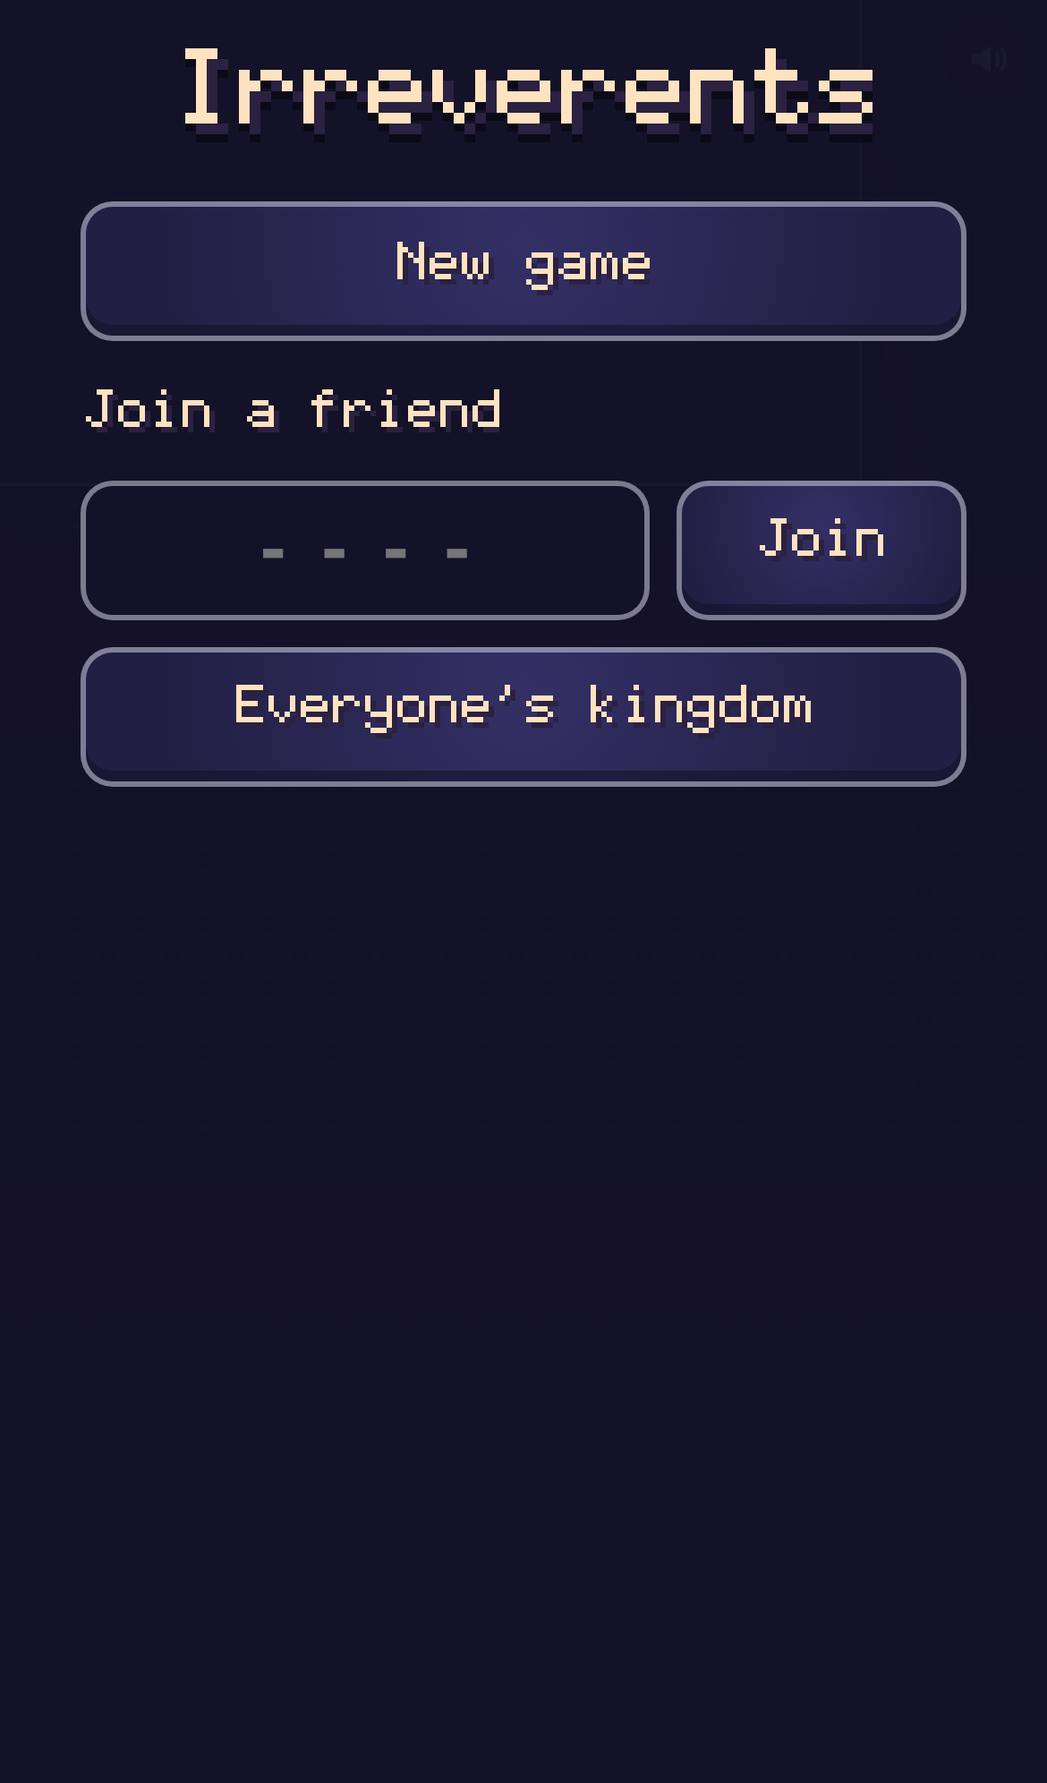
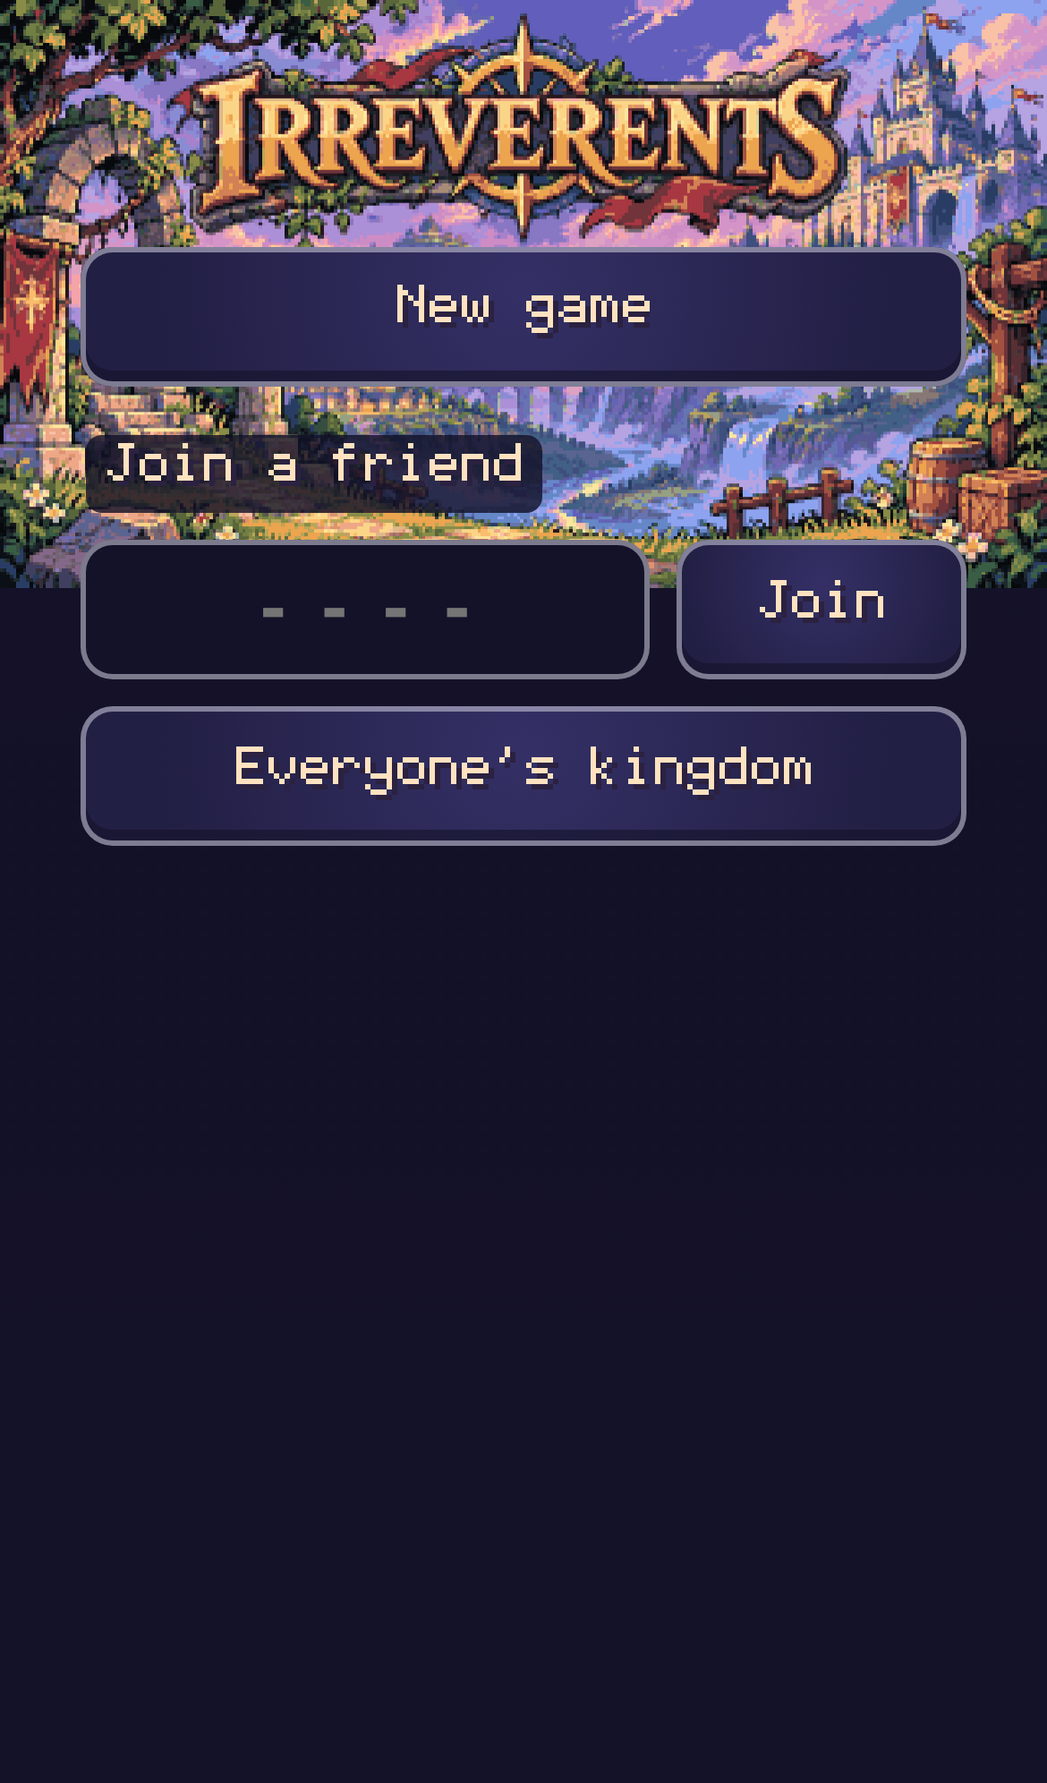
The owner's title screen on the start screen
The owner: "Title screen asset added to the drive". Their picture (Drive:
Current Pixel-Art Explorations/Irreverents_Title_Screen_Concept_2026-11-23.png,
mirrored at 8cb79ac) is now the start screen's title, behind the choices,
on the start screen and on a shared link's page. Its own lettering is the
title, so the old pixel-font title is not drawn.

- tools/art/title/make.py re-authors it to the 320x180 grid (cell
  averages, then 64 flat colours, no dither) as assets/ui/title-screen.png;
  content/looks/title.json names the whole picture and the wordmark's box.
- src/client/start.ts draws it inside the safe area, whole and against the
  top, nearest-neighbour at device pixels; a spacer keeps every choice
  below the wordmark; labels get a dark backing over the picture; under
  420 px high the choices pack to 44 px. Sideways the whole picture shows;
  upright it spans the width at the top (DRAFT, decisions-log 2026-11-24).
  An empty Continue column no longer pushes the choices off centre.

Ran: npm run build, npm run check (ok); npm run e2e twice: every start-*
fact ok both times; known flakes from step-5-e2e-flakes failed (run 1:
t-throw-friend, h1, h2; run 2: h1 only). Control: with content/looks/title.json
removed, the page draws the old title and no picture. Screenshots at
390x664, 667x375, 844x340 and 1280x720 in docs/plan/step-17-shots/title/,
looked at: nothing cropped, every choice on screen and 44 px or taller.
[…]

diff --git a/src/client/start.ts b/src/client/start.ts
@@ -9,6 +9,7 @@
 import type { Content } from '../content/types.ts';
 import { cleanGameCode, codeFromText, GAME_CODE_LENGTH, GAME_PREFIX, gameCode, isGameCode, makeGameCode } from '../net/game-code.ts';
 import { DEFAULT_WORLD } from '../net/protocol.ts';
+import { lookTable } from '../content/kinds/looks.ts';
 import { look } from './draw/looks.ts';
 
 /** A key-value store that never throws (main.ts's `storage`: phone storage, else memory). */
@@ -171,6 +172,92 @@ function piecesImage(content: Content, pieces: boolean[], cssPerPixel: number): 
   return span;
 }
 
+// ---- The title picture ---------------------------------------------------
+
+/** DRAFT: the owner's title screen (content/looks/title.json); the whole picture, and the wordmark's box inside it. */
+const TITLE_LOOK = 'start-title-screen';
+const WORDMARK_LOOK = 'start-title-wordmark';
+
+/**
+ * The owner's title screen behind the start screen (docs/plan/step-17.md,
+ * "Title screen"). The whole picture is fitted inside the safe area,
+ * nearest-neighbour at device pixels, centred and against the top: sideways
+ * it fills the height, upright it spans the width with the night ground
+ * below. A spacer keeps every choice below the wordmark's box, so no button
+ * covers the title. Null when content has no title picture: the caller
+ * draws the old pixel-font title instead (art is data).
+ */
+function titlePicture(content: Content): { back: HTMLElement; spacer: HTMLElement; stop(): void } | null {
+  const table = lookTable(content);
+  const whole = table.get(TITLE_LOOK);
+  const mark = table.get(WORDMARK_LOOK);
+  if (!whole) return null;
+  const back = el('div', { class: 'st-back' });
+  const c = el('canvas', { role: 'img', 'aria-label': 'Irreverents' });
+  back.append(c);
+  const spacer = el('div', { class: 'st-spacer' });
+  // The wordmark's bottom edge on the picture (the whole picture when the file names no box).
+  const clearTo = mark ? mark.src[1] + mark.src[3] - whole.src[1] : whole.src[3];
+  const layout = (): boolean => {
+    const r = back.getBoundingClientRect();
+    const [, , w, h] = whole.src;
+    const s = Math.min(r.width / w, r.height / h);
+    if (!(s > 0)) return false;
+    // Keep every choice below the wordmark: the spacer ends where the box does on screen.
+    spacer.style.height = '0px';
+    const parent = spacer.parentElement;
+    const scrolled = parent ? parent.scrollTop : 0;
+    const startsAt = spacer.getBoundingClientRect().top + scrolled;
+    spacer.style.height = `${Math.max(0, Math.ceil(r.top + clearTo * s + 4 - startsAt))}px`;
+    const l = look(content, TITLE_LOOK);
+    if (!l) return false;
+    const dpr = window.devicePixelRatio || 1;
+    const cw = Math.round(w * s * dpr);
+    const ch = Math.round(h * s * dpr);
+    c.width = cw;
+    c.height = ch;
+    c.style.width = `${cw / dpr}px`;
+    c.style.height = `${ch / dpr}px`;
+    const g = c.getContext('2d');
+    if (!g) return false;
+    g.imageSmoothingEnabled = false;
+    g.drawImage(l.img, l.x, l.y, l.w, l.h, 0, 0, cw, ch);
+    return true;
+  };
+  let t = 0;
+  const retry = (): void => {
+    clearInterval(t);
+    if (layout()) return;
+    t = window.setInterval(() => layout() && clearInterval(t), 100);
+    setTimeout(() => clearInterval(t), 20000);
+  };
+  window.addEventListener('resize', retry);
+  window.addEventListener('orientationchange', retry);
+  requestAnimationFrame(retry);
+  return {
+    back,
+    spacer,
+    stop: () => {
+      clearInterval(t);
+      window.removeEventListener('resize', retry);
+      window.removeEventListener('orientationchange', retry);
+    },
+  };
+}
+
+/** The top of the start screen: the owner's title picture when content has it, else the pixel-font title. */
+function titleTop(content: Content, root: HTMLElement): (() => void) | null {
+  const pic = titlePicture(content);
+  if (!pic) {
+    root.append(el('div', { class: 'st-title' }, words(content, 'Irreverents', 4)));
+    return null;
+  }
+  root.classList.add('pictured');
+  // INTENT: the picture's own lettering is the title; the old text title is not also drawn (the brief).
+  root.append(pic.back, pic.spacer);
+  return pic.stop;
+}
+
 // ---- Look ----------------------------------------------------------------
 
 const CSS = `
@@ -206,6 +293,25 @@ const CSS = `
 #menu-btn i { position: absolute; left: 13px; width: 18px; height: 2px; background: rgba(244, 241, 222, .7); box-shadow: 0 0 0 1px rgba(15, 15, 28, .55); }
 #menu-btn i:nth-child(1) { top: 15px; } #menu-btn i:nth-child(2) { top: 21px; } #menu-btn i:nth-child(3) { top: 27px; }
 #menu-btn:active { background: rgba(244, 241, 222, .2); }
+/* DRAFT (title screen): the owner's picture behind the choices, inside the safe area (clear of the notch and the home bar), on the night ground. */
+#start .st-back { position: fixed; z-index: -1; pointer-events: none; display: flex; justify-content: center; align-items: flex-start;
+  top: env(safe-area-inset-top); right: env(safe-area-inset-right); bottom: env(safe-area-inset-bottom); left: env(safe-area-inset-left); }
+#start .st-back canvas { display: block; }
+#start .st-spacer { flex: none; width: 100%; }
+/* No games to continue: the empty column takes no room, so the choices sit centred under the title. */
+#start .st-col:empty { display: none; }
+/* Words with no button of their own sit on a dark plate, so they read over the picture. */
+#start.pictured .st-label, #start.pictured .st-say:not(:empty) { align-self: flex-start; padding: 3px 8px; border-radius: 6px; background: rgba(20, 18, 40, .82); }
+#start.pictured .st-say:not(:empty) { align-self: stretch; }
+#start.pictured .st-btn.quiet { background: rgba(20, 18, 40, .82); }
+/* Short screens (a phone sideways): every choice still 44 px, packed closer, so all fit below the wordmark. */
+@media (max-height: 420px) {
+  #start.pictured .st-col { gap: 8px; }
+  #start.pictured .st-btn { min-height: 44px; }
+  #start.pictured .st-btn.big { min-height: 64px; }
+  #start.pictured .st-join input { height: 44px; }
+  #start.pictured .st-label { margin-top: 0; }
+}
 #game-menu, #gone { justify-content: center; }
 #gone .st-col { display: flex; flex-direction: column; gap: 14px; width: 100%; max-width: 330px; }
 #gone .st-say { font-size: 16px; line-height: 1.4; }
@@ -276,6 +382,7 @@ export function showStart(opts: StartOptions): StartRecord {
     return parts.length > 0 ? `?${parts.join('&')}` : location.pathname;
   };
   let done = false;
+  let stopTitle: (() => void) | null = null;
   const go = (world: string): void => {
     if (done) return;
     done = true;
@@ -289,6 +396,7 @@ export function showStart(opts: StartOptions): StartRecord {
       // an address that cannot be changed changes nothing else
     }
     root.remove();
+    stopTitle?.();
     record.shown = 'none';
     opts.play(world);
   };
@@ -330,7 +438,8 @@ export function showStart(opts: StartOptions): StartRecord {
       location.href = location.pathname + (tune ? '?tune' : '');
     });
     const col = el('div', { class: 'st-col' }, join, back);
-    root.append(el('div', { class: 'st-title' }, words(content, 'Irreverents', 4)), col);
+    stopTitle = titleTop(content, root);
+    root.append(col);
     document.body.append(root);
     return record;
   }
@@ -412,7 +521,8 @@ export function showStart(opts: StartOptions): StartRecord {
     }
   }
 
-  root.append(el('div', { class: 'st-title' }, words(content, 'Irreverents', 4)), el('div', { class: 'st-cols' }, left, right));
+  stopTitle = titleTop(content, root);
+  root.append(el('div', { class: 'st-cols' }, left, right));
   document.body.append(root);
   return record;
 }

diff --git a/tools/art/title/make.py b/tools/art/title/make.py
@@ -1,0 +1,75 @@
+"""The start screen's title picture, re-authored from the owner's Drive asset.
+
+Run from the repository root:  python3 -I tools/art/title/make.py
+
+Reads the design-library mirror's copy of the owner's title screen
+(Drive: /03 Visual Direction and Assets/Current Pixel-Art Explorations/
+Irreverents_Title_Screen_Concept_2026-11-23.png, 1672 x 941), and writes:
+
+  assets/ui/title-screen.png   the picture on the native 320 x 180 grid
+  content/looks/title.json     two looks cut from it: the whole picture,
+                               and the wordmark's box (the start screen
+                               keeps its buttons below that box)
+
+Re-authoring, not redrawing (docs/mechanisms/art-pipeline.md): each
+320 x 180 cell is the average of the source pixels it covers (the source's
+own "pixels" are about 5.2 of its pixels wide, so the average lands on
+one), then the whole picture is cut to 64 colours with no dithering, so
+every pixel is a hard flat colour. Opaque throughout (a full-screen
+picture has no transparency). Deterministic: two runs give the same bytes.
+
+DRAFT: 64 colours and the averaging were chosen by eye against a
+nearest-neighbour pick (speckled lettering); the wordmark box was read off
+the result. The owner's file is labelled a concept; in use is not canon
+(D-096).
+"""
+import json
+import os
+import sys
+
+from PIL import Image
+
+ROOT = os.path.dirname(os.path.dirname(os.path.dirname(os.path.dirname(os.path.abspath(__file__)))))
+SOURCE = os.path.join(
+    ROOT, 'docs', 'design-library', '03-visual-direction-and-assets', 'current-pixel-art-explorations',
+    'irreverents-title-screen-concept-2026-11-23.png')
+OUT_IMAGE = 'ui/title-screen.png'
+OUT_CONTENT = os.path.join(ROOT, 'content', 'looks', 'title.json')
+W, H = 320, 180
+COLOURS = 64
+# [x, y, w, h] on the 320 x 180 grid: the plaque with its lettering, the
+# compass star's points and the ribbons. Nothing the start screen shows may
+# cover it.
+WORDMARK = [52, 4, 212, 68]
+
+
+def main():
+    if not os.path.exists(SOURCE):
+        sys.exit(f'missing {SOURCE}: run python3 -I tools/drive_sync.py first')
+    src = Image.open(SOURCE).convert('RGB')
+    small = src.resize((W, H), Image.BOX)
+    # Kept as a 64-colour palette image: the same pixels in a third of the bytes.
+    flat = small.quantize(colors=COLOURS, method=Image.Quantize.MEDIANCUT, dither=Image.Dither.NONE)
+    out = os.path.join(ROOT, 'assets', OUT_IMAGE)
+    os.makedirs(os.path.dirname(out), exist_ok=True)
+    flat.save(out, optimize=True)
+    group = {
+        '//': ('DRAFT: the owner\'s title screen (Drive: Current Pixel-Art Explorations/'
+               'Irreverents_Title_Screen_Concept_2026-11-23.png, a concept), re-authored to 320x180 by '
+               'tools/art/title/make.py. start-title-screen is the whole picture; start-title-wordmark is the box '
+               'the start screen keeps clear. With this file gone the start screen draws its old pixel-font title.'),
+        'id': 'title',
+        'image': OUT_IMAGE,
+        'looks': {
+            'start-title-screen': {'src': [0, 0, W, H]},
+            'start-title-wordmark': {'src': WORDMARK},
+        },
+    }
+    with open(OUT_CONTENT, 'w') as f:
+        json.dump(group, f, indent=2)
+        f.write('\n')
+    print(f'wrote assets/{OUT_IMAGE} ({W}x{H}, {COLOURS} colours) and content/looks/title.json')
+
+
+if __name__ == '__main__':
+    main()

diff --git a/docs/mechanisms/asset-coverage.md b/docs/mechanisms/asset-coverage.md
@@ -29,10 +29,10 @@ Rows go stale as the look3 lanes push: re-check a row against the current file b
 | Interactive looks (props) | 28 | 19 | 7 | 0 |
 | Decor | 43 | 12 | 25 | 6 |
 | Effects | 9 | 5 | 4 | 0 |
-| UI and HUD | 44 | 8 | 31 | 5 |
+| UI and HUD | 44 | 9 | 31 | 4 |
 | Sound effects | 42 | 29 | 7 | 6 |
 | Music | 8 | 0 | 0 | 8 |
-| **All** | **218** | **89** | **100** | **27** |
+| **All** | **218** | **90** | **100** | **26** |
 
 ## Path keys
 
@@ -77,7 +77,7 @@ Rows go stale as the look3 lanes push: re-check a row against the current file b
 | MA-19 | `sfx:flap` | Flyer wing flap | BACKLOG | AUD-008 (new row: flyer flap/glide sounds) |
 | MA-20 | `ui:sound-button` | Sound on/off button | BACKLOG | UI-013 (audio mute) |
 | MA-21 | `ui:page-surround` | Page ground tile + thin game frame | BACKLOG | UI-016 (new row: page ground and game frame) |
-| MA-22 | `ui:start-title` | 'Irreverents' title wordmark (DRAFT until the owner picks it) | BACKLOG | UI-015 (new row: start-screen title wordmark) |
+| MA-22 | `ui:start-title` | 'Irreverents' title wordmark (DRAFT until the owner picks it) | DELIVERED 2026-11-24 (the owner's title screen; in the game) | UI-015 (new row: start-screen title wordmark) |
 | MA-23 | `sprite:dummy` | Training dummy (light) | BACKLOG | INT-017 (new row: training dummies, light and heavy) |
 | MA-24 | `sprite:dummy-heavy` | Training dummy (heavy) | BACKLOG | INT-017 (new row, with MA-23) |
 | MA-25 | `decor:portraits` | Framed portraits (throne room, Hall gallery) | BACKLOG | INT-010 (royal room prop set) |
@@ -304,7 +304,7 @@ U08-01 buttons are delivered and byte-identical in assets/ui/touch/. Everything 
 | `ui:cantina-party-row` | approved-source-not-used | Chips: P07 UI portraits (27,69,177,216), (190,69,343,216), (353,69,507,216) and the P04 cantina heads; taken: P07 locked slot (295,724,405,834) or red X; own: P07 selected slot (175,724,285,834); swap: P05 HUD glyph (584,24,768,145); layout: A00-03 party panel (410,470,805,665). | look3-props cuts party-chip looks; Step 11 (cantina.ts drawRow) draws them. |
 | `ui:hall-card` | approved-source-not-used | `P04/hall-of-legends-tile-atlas.png` big plaque (380,520,497,585) as the nine-slice; rank: laurel plaque (276,519,356,573), P05 D laurels (340,860,408,935), (508,860,592,935), (604,850,697,945); picture border: P07 selected slot. | look3-props cuts 'hall-card' and rank looks; actors (hall.ts drawPanel) draw them. |
 | `ui:hall-banner` | approved-source-not-used | `P04/hall-of-legends-tile-atlas.png` laurel banner (991,516,1061,597) or drape (1184,516,1314,583); P05 D crown ribbon (604,850,697,945). | look3-props cuts 'hall-banner'; actors (hall.ts) draw it. |
-| `ui:start-title` | no-approved-source | MA-22 | Step 17 (start.ts), once delivered. |
+| `ui:start-title` | uses-approved | The owner's title screen, Drive `Current Pixel-Art Explorations/Irreverents_Title_Screen_Concept_2026-11-23.png` (a concept), whole, re-authored to 320×180 by `tools/art/title/make.py` (`assets/ui/title-screen.png`, `content/looks/title.json`); it also gives `ui:start-panel` its backdrop. | Step 17 (start.ts, `titlePicture`). MA-22 delivered 2026-11-24. |
 | `ui:start-buttons` | approved-source-not-used | `P07/irreverents-pixel-ui-atlas.png` menu row: play (585,729,790,829), list/gear/bag plates (805,729,1250,829), back (1265,729,1410,829), plain slot (60,724,165,834); pressed derived (DRAFT). Layout: A00-05 menu panel (355,835,700,1015). | Step 17 (start.ts .st-btn); look3-props cuts the nine-slices into assets/ui/. |
 | `ui:start-code-field` | approved-source-not-used | `P07/irreverents-pixel-ui-atlas.png` plain slot (60,724,165,834); focus = selected slot (175,724,285,834). | Step 17; look3-props cuts the frames. |
 | `ui:start-panel` | approved-source-not-used | `A00/a00-03-...` top banner composition (0,0,1160,185); BKG-01 panorama (Drive folder 1pw3aCojPx3vvDGWHRt2f_ons-Rammisv) dimmed under a P07 slot-frame panel; A00-05 menu panel (355,835,700,1015). | Step 17 (start.ts #start, #game-menu); the ground lane's BKG-01 import supplies the panorama. |

diff --git a/docs/plan/step-17.md b/docs/plan/step-17.md
@@ -150,3 +150,36 @@ Step 17 builder `session_017WiGzGw7XaQ6tZNddFaa8s`, 2026-11-23.
 - Open (DRAFT): a part that moved in an edited room starts again in old
   saves; a component field a later build adds to a body still needs its
   system to default it, or that game is set aside (contained, but not run).
+
+## Title screen
+
+Builder `session_017WiGzH3PZe5UkjdEEaAN75`, 2026-11-24, on
+`handoff-prompts/owner-title-screen.md` (the owner: "Title screen asset
+added to the drive").
+
+- **The asset.** Drive `/03 Visual Direction and Assets/Current Pixel-Art
+  Explorations/Irreverents_Title_Screen_Concept_2026-11-23.png` (1672×941,
+  2.9 MB, no doc beside it; named a concept, used as it is, D-096). It
+  shows the gold "IRREVERENTS" wordmark on a stone plaque with a compass
+  star and red ribbons, a sunset sky with floating islands, ruins left, a
+  castle and waterfalls right, a town and aqueduct between. Mirrored by the
+  sync at 8cb79ac.
+- **On screen.** `tools/art/title/make.py` re-authors it to 320×180 (each
+  cell the average of the source pixels under it, then 64 flat colours, no
+  dither; nearest-neighbour was tried and speckled the lettering) as
+  `assets/ui/title-screen.png`, with `content/looks/title.json` naming the
+  whole picture and the wordmark's box. `src/client/start.ts` draws it
+  behind the start screen and the link page (decisions-log, 2026-11-24).
+  Without the content file the old pixel-font title comes back (checked).
+- **Shots** (`docs/plan/step-17-shots/title/`, local server, Playwright at
+  2×): upright 390×664, the whole picture across the top, title clear,
+  every choice below it, the field's top at 201 px; sideways 667×375, the
+  picture fills the screen; sideways 844×340, the whole picture with night
+  bars left and right, nothing cropped; desktop 1280×720, the picture fills
+  at 4×. Each size with and without three games to continue: every choice
+  on screen and 44 px or taller, no scrolling. Fixed after looking: the
+  empty Continue column pushed the choices off centre (it now takes no
+  room), and the link page's "Start screen" button had no backing over the
+  picture.
+- Not verified: a real iPhone (the notch inset: the picture sits inside the
+  safe area, measured only in emulation, where the inset is 0).

diff --git a/docs/decisions-log.md b/docs/decisions-log.md
@@ -1163,3 +1163,10 @@ document as a decision of theirs.
 - **Why this way:** D-081: damage knocks a power loose, and getting it back before it vanishes is the library's own proposal. A hard hit is being knocked out, or a blow that sends you flying fast: a quarry heavy's yes, a shopkeeper's swat no, the villain's yes on the light infiltrator but no on the grappler. It lies there for five seconds and anyone can grab it: you, a friend, or a friend who just hit you. It is not lost in the cantina, where friends brawl for fun.
 - **To change it:** `powerHardHitSpeed` (180) and `powerLostInCantina` (0, or 1 to lose it there too) in `content/tuning.json`; each power's `fade` in its file.
 - **Where:** `docs/mechanisms/powers.md`, "Losing it".
+
+### 2026-11-24 · The start screen shows the owner's title picture: the whole picture sideways, the full width at the top when upright
+- **Decided by:** owner-title-screen builder (Step 17), `session_017WiGzH3PZe5UkjdEEaAN75`
+- **Instead of asking:** "How should the title picture sit on a phone held upright, where a 16:9 picture can't fill the screen, and how should the buttons share it?"
+- **Why this way:** the owner: "Title screen asset added to the drive"; the brief: the whole picture is seen sideways, and upright choose what keeps the title readable. Cropping upright to fill the height would show only the middle letters ("EVER"), so the whole picture is shown across the width at the top, with the night ground below. In every orientation the buttons sit below the wordmark and never cover it; over the picture, the labels get a dark backing so they stay readable, and sideways the buttons pack to 44 px so all seven still fit. The picture's own lettering is the title, so the old pixel-font title is not drawn. The file is labelled a concept; it is used as it is (D-096).
+- **To change it:** the picture and the wordmark's box are `content/looks/title.json` (made by `tools/art/title/make.py`: its colour count and box); the fit and spacing are `titlePicture` and the "title screen" CSS in `src/client/start.ts`. Delete `content/looks/title.json` and the old title returns.
+- **Where:** `docs/plan/step-17.md`, "Title screen"; `docs/mechanisms/saves.md`, "The start screen".

diff --git a/docs/mechanisms/saves.md b/docs/mechanisms/saves.md
@@ -218,6 +218,13 @@ file, no "exists", the part state and the body's place gone).
   levels found with their pies (Step 14, `docs/mechanisms/levels.md`), then **Back to
   the start screen** (`INTENT:` the way out; it says `bye` and loads the
   bare address) and **Close**. A `?room=` world has only Back and Close.
+- **The title** is the owner's picture (`content/looks/title.json`, looks
+  `start-title-screen` and `start-title-wordmark`), drawn behind the start
+  screen and the link page inside the safe area: whole and against the top,
+  nearest-neighbour at device pixels. A spacer keeps every choice below the
+  wordmark's box; on screens under 420 px high the choices pack to 44 px.
+  Without the file, the pixel-font title is drawn instead
+  (`docs/plan/step-17.md`, "Title screen").
 - Words are the game's pixel font (`content/looks/font.json`,
   `font-light`), drawn on small canvases at whole device pixels per font
   pixel; plain text until the font loads. The code field is 24 px (under
@@ -260,4 +267,5 @@ menu's code, Close, the link's one tap, sound unlocked by it, each page
 draws the other), `start-back` (back, Continue lists the game first, the
 friend's page stops drawing them), `start-room` (`?room=` never shows it,
 its menu has only Back and Close). Screenshot:
-`docs/plan/step-17-shots/start-screen-390x664.png`.
+`docs/plan/step-17-shots/start-screen-390x664.png`; the title at every
+size in `docs/plan/step-17-shots/title/`.
